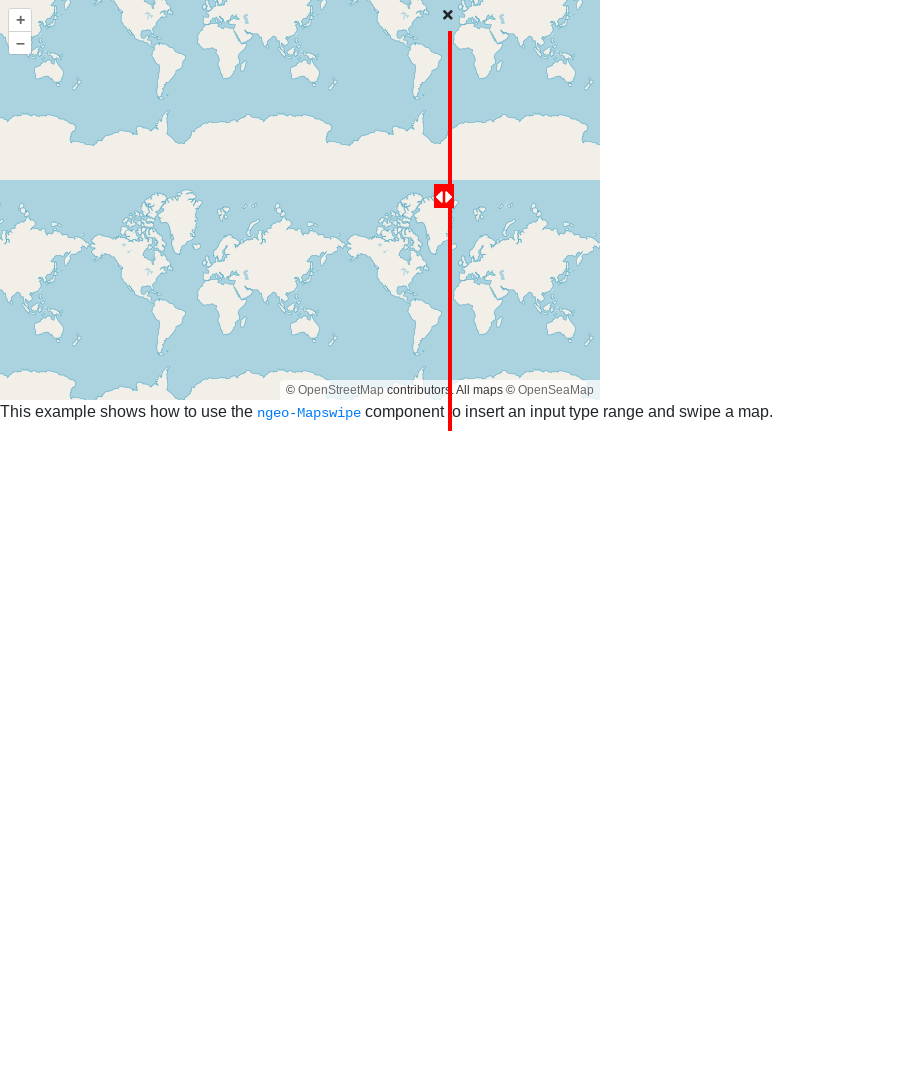
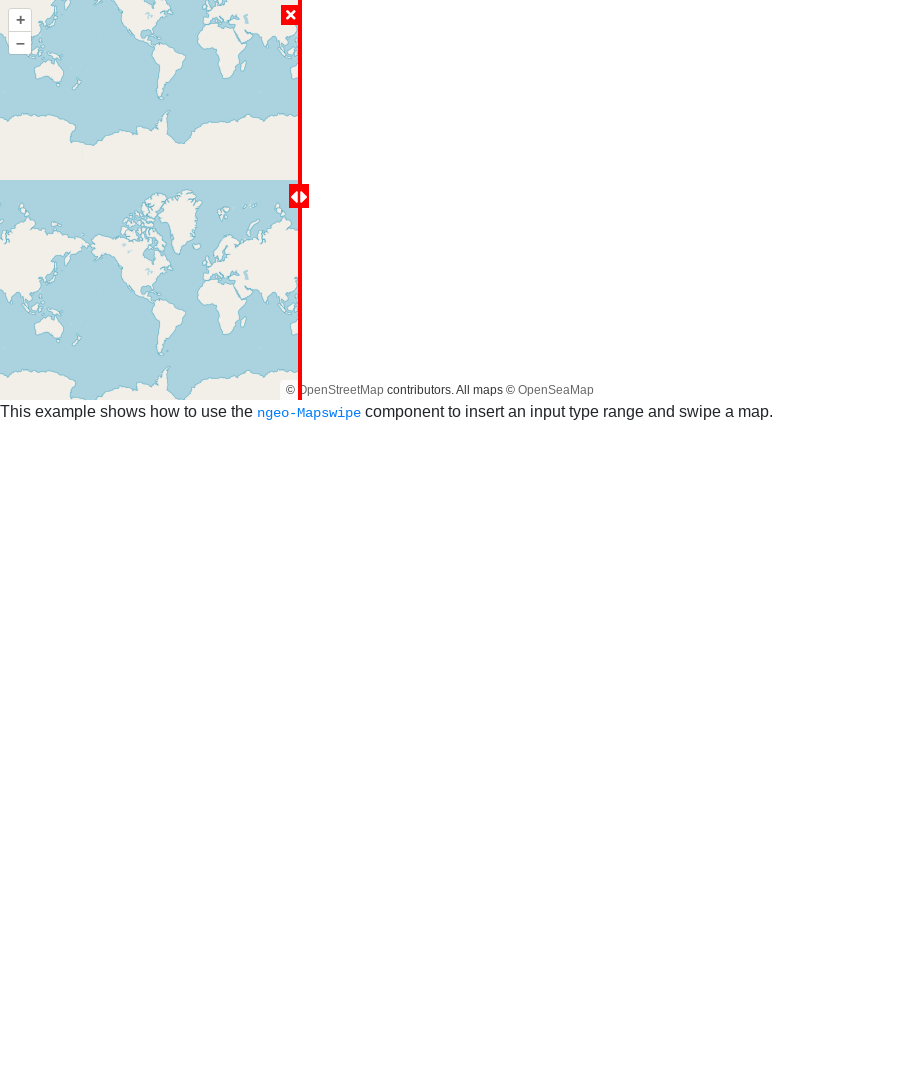
Fix error in mapswipe example

Changed region(s): [[0.3111, 0.0, 0.6844, 0.3972]]

diff --git a/examples/mapswipe.css b/examples/mapswipe.css
@@ -1,10 +1,19 @@
 #map,
 ngeo-mapswipe {
-  width: 100%;
+  width: 600px;
   height: 400px;
 }
 ngeo-mapswipe {
   position: absolute;
+}
+
+.ngeo-swipe-close i {
+  background-color: red;
+  color: white;
+  width: 20px;
+  height: 20px;
+  padding-top: 3px;
+  margin-left: -12px;
 }
 
 .ngeo-swipe-line-draggable {
@@ -17,6 +26,7 @@ ngeo-mapswipe {
 }
 .ngeo-swipe-line {
   position: absolute;
+  top: 0;
   left: 50%;
   width: 4px;
   margin-left: -2px;
@@ -26,7 +36,7 @@ ngeo-mapswipe {
 
 .ngeo-swipe-arrow {
   position: absolute;
-  left: 0;
+  left: 5px;
   top: 50%;
   margin-top: -16px;
   padding: 0 2px;

diff --git a/examples/mapswipe.html b/examples/mapswipe.html
@@ -7,7 +7,11 @@
     <meta name="mobile-web-app-capable" content="yes" />
   </head>
   <body ng-controller="MainController as ctrl">
-    <ngeo-mapswipe map="::ctrl.map" layer="::ctrl.openSeaMapLayer"></ngeo-mapswipe>
+    <ngeo-mapswipe
+      map="::ctrl.map"
+      layer="::ctrl.openSeaMapLayer"
+      swipe-value="::ctrl.gmfLayerBeingSwipe.swipeValue"
+    ></ngeo-mapswipe>
     <gmf-map id="map" gmf-map-map="::ctrl.map"></gmf-map>
     <p id="desc">
       This example shows how to use the

diff --git a/examples/mapswipe.js b/examples/mapswipe.js
@@ -62,6 +62,11 @@ function MainController() {
       zoom: 15,
     }),
   });
+
+  this.gmfLayerBeingSwipe = {
+    layer: this.openSeaMapLayer,
+    swipeValue: 0.5,
+  };
 }
 
 myModule.controller('MainController', MainController);
